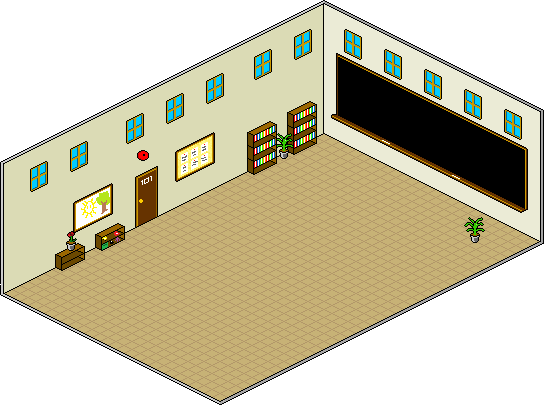
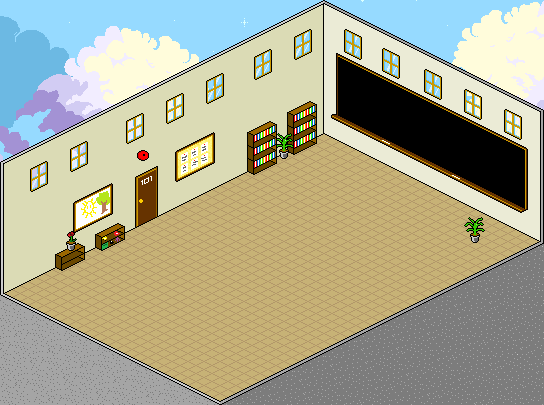
opened door animation and map background added, remove some console.logs

diff --git a/src/Components/MainPage.jsx b/src/Components/MainPage.jsx
@@ -87,6 +87,7 @@ function fillDeskInClassroom(nteacher, classroom, app) {
         }
     }
 }
+let opened_door_sprite;
 
 function displayClassroom(app, classroom) {
     PIXI.Assets.load('../../src/assets/map.png').then((texture) => {
@@ -95,8 +96,17 @@ function displayClassroom(app, classroom) {
         terrainSprite.height = window.innerHeight; // Redimensionner pour prendre toute la hauteur
         terrainSprite.x = (window.innerWidth - terrainSprite.width); // Centrer horizontalement
         terrainSprite.y = (window.innerHeight - terrainSprite.height); // Centrer verticalement
-        terrainSprite.zIndex = -1;
+        terrainSprite.zIndex = -2;
         app.stage.addChild(terrainSprite);
+    });
+    PIXI.Assets.load('../../src/assets/opened_door.png').then((texture) => {
+        opened_door_sprite = new PIXI.Sprite(texture);
+        opened_door_sprite.width = window.innerWidth;  // Redimensionner pour prendre toute la largeur
+        opened_door_sprite.height = window.innerHeight; // Redimensionner pour prendre toute la hauteur
+        opened_door_sprite.x = (window.innerWidth - opened_door_sprite.width); // Centrer horizontalement
+        opened_door_sprite.y = (window.innerHeight - opened_door_sprite.height); // Centrer verticalement
+        opened_door_sprite.zIndex = -1;
+        app.stage.addChild(opened_door_sprite);
     });
     // Charger et afficher les bureaux
     for (let desk of classroom._desksStudent) {
@@ -220,12 +230,15 @@ const MainPage = ({sweetNumber, studentNumber, setSweetNumber, setStudentNumber,
     classroom.displayDesks(app);
     app.ticker.maxFPS = maxFPS;
 
-    console.log("Classroom : ", classroom._grid);
+    //console.log("Classroom : ", classroom._grid);
     app.ticker.add(() => {
-        console.log("Classroom state : ", classroom._state);
-        //console.log("classroom : ", classroom);
+
         if (classroom._state === "StartAnimation") {
             classroom.agentEnter();
+            if (classroom._agentsWaitingToEnter.length === 0 && opened_door_sprite) {
+                opened_door_sprite.destroy(true);
+                opened_door_sprite = null;
+            }
         }
         nCandiesTaken = 0;
         

diff --git a/src/Components/Teacher.jsx b/src/Components/Teacher.jsx
@@ -32,7 +32,8 @@ export class Teacher extends Agent {
         let destination = null;
         let closestStudent = null;
         if (this._classroom._state === ClassroomState.StartAnimation) {
-            destination = this._patrolPoints[0];
+            // Si état = StartAnimation, destination = position de départ
+            destination = {x:this._desk._coordGrid.x+1, y:this._desk._coordGrid.y};
             if (start.x === destination.x && start.y === destination.y) {
                 this._state = TeacherState.Patrolling;
                 return;
@@ -55,22 +56,22 @@ export class Teacher extends Agent {
             // Si état = Patrolling, destination = prochain point de patrouille
             if (this._state === TeacherState.Patrolling) {
                 destination = this.getPatrolPoint();
-                console.log("Point de patrouille : ", destination);
+               // console.log("Point de patrouille : ", destination);
             }
             if (this._state === TeacherState.MovingToStudent) {
                 destination = closestStudent._gridPos;
-                console.log("Closest student position", destination);
+                //console.log("Closest student position", destination);
             }
         }
         // Calcule la route (pathfinding) pour aller à la destination
         let graph = new Graph(this._classroom._grid, this._gridPos, destination);
-        console.log(graph);
+        //console.log(graph);
             
         let path = graph.A_star(start, destination);
         if (path.length > 0) {
             // Fait le prochain mouvement
             let direction = this.getNextDirection(start, path[1]);
-            console.log("Direction : ", direction);
+            //console.log("Direction : ", direction);
             this.performAgentAction(direction);
         }
 

diff --git a/src/Components/Classroom.jsx b/src/Components/Classroom.jsx
@@ -132,9 +132,11 @@ export class Classroom {
         let enter2 = {x: 18, y : 1};
         if (this._grid[enter1.y][enter1.x] === 0) {
             let agent1 = this._agentsWaitingToEnter.pop();
-            this._grid[enter1.y][enter1.x] = agent1;
-            agent1.setGridPos(enter1);
-            agent1.display();
+            if (agent1 !== undefined) {
+                this._grid[enter1.y][enter1.x] = agent1;
+                agent1.setGridPos(enter1);
+                agent1.display();
+            }
         }
         if (this._grid[enter2.y][enter2.x] === 0) {
             let agent2 = this._agentsWaitingToEnter.pop();

diff --git a/src/Components/Graph.js b/src/Components/Graph.js
@@ -114,9 +114,9 @@ class Graph {
 
     A_star(start, destination) {
         let startNode = this.nodes[`${start.x},${start.y}`];
-        console.log(start);
+        //console.log(start);
         const destinationNode = this.nodes[`${destination.x},${destination.y}`];
-        console.log(destination);
+        //console.log(destination);
         if (!startNode || !destinationNode) {
             console.error("Start or destination node is invalid.");
             console.log("Start Node:", startNode);

diff --git a/src/Components/Student.jsx b/src/Components/Student.jsx
@@ -46,6 +46,7 @@ export class Student extends Agent {
         let destination;
         let graph = new Graph(this._classroom._grid, this._gridPos, this._classroom._candy);
         if (this._classroom._state === "StartAnimation") {
+            // Si état = StartAnimation, destination = position de départ
             destination = this._desk._coordGrid;
             if (this._gridPos.x === destination.x && this._gridPos.y === destination.y) {
                 this._state = StudentState.Idle;
